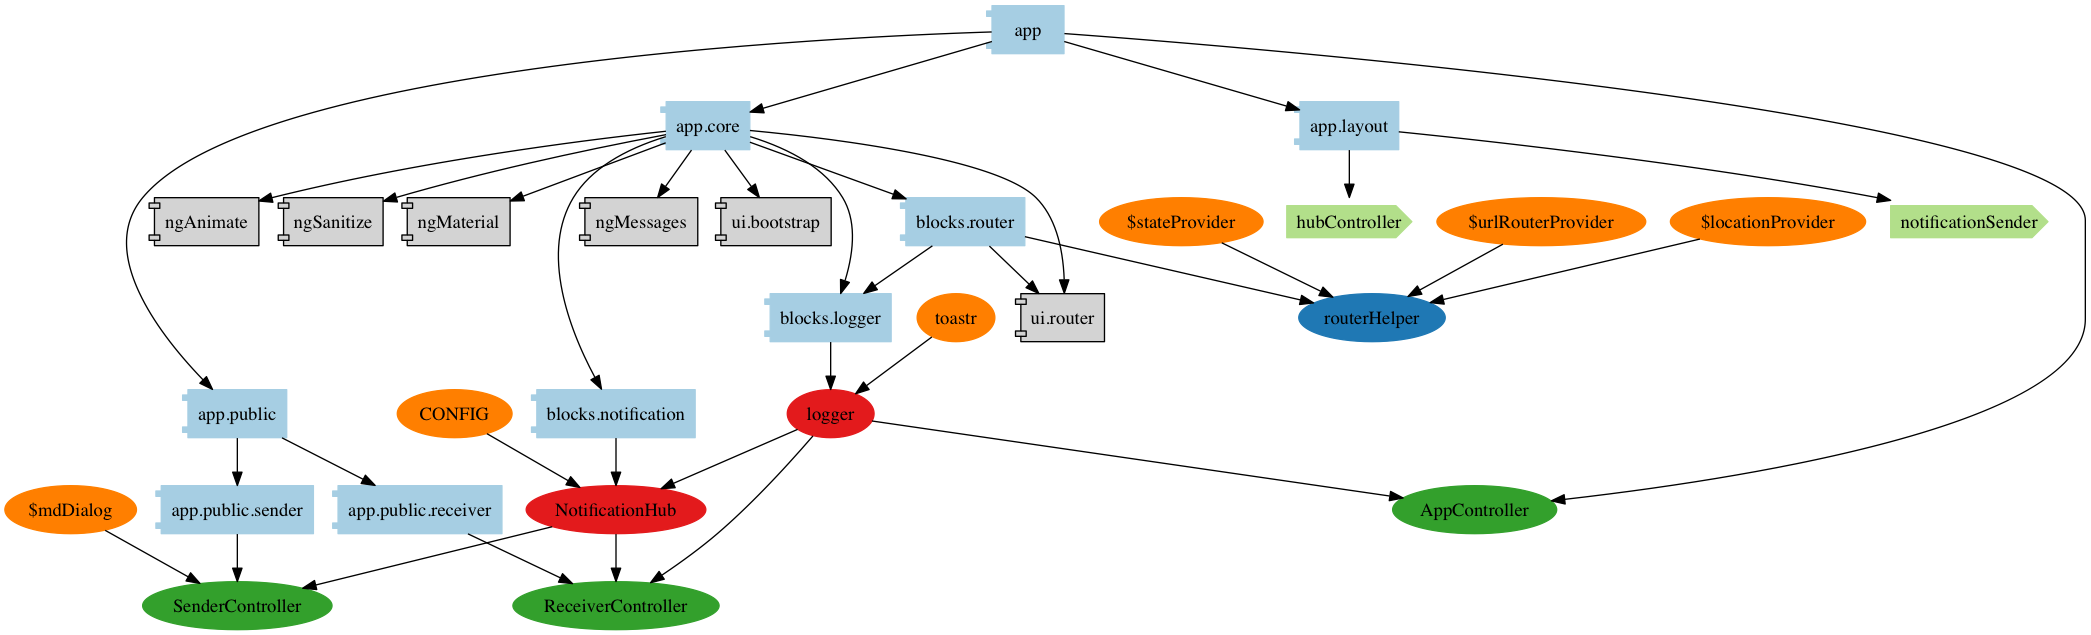
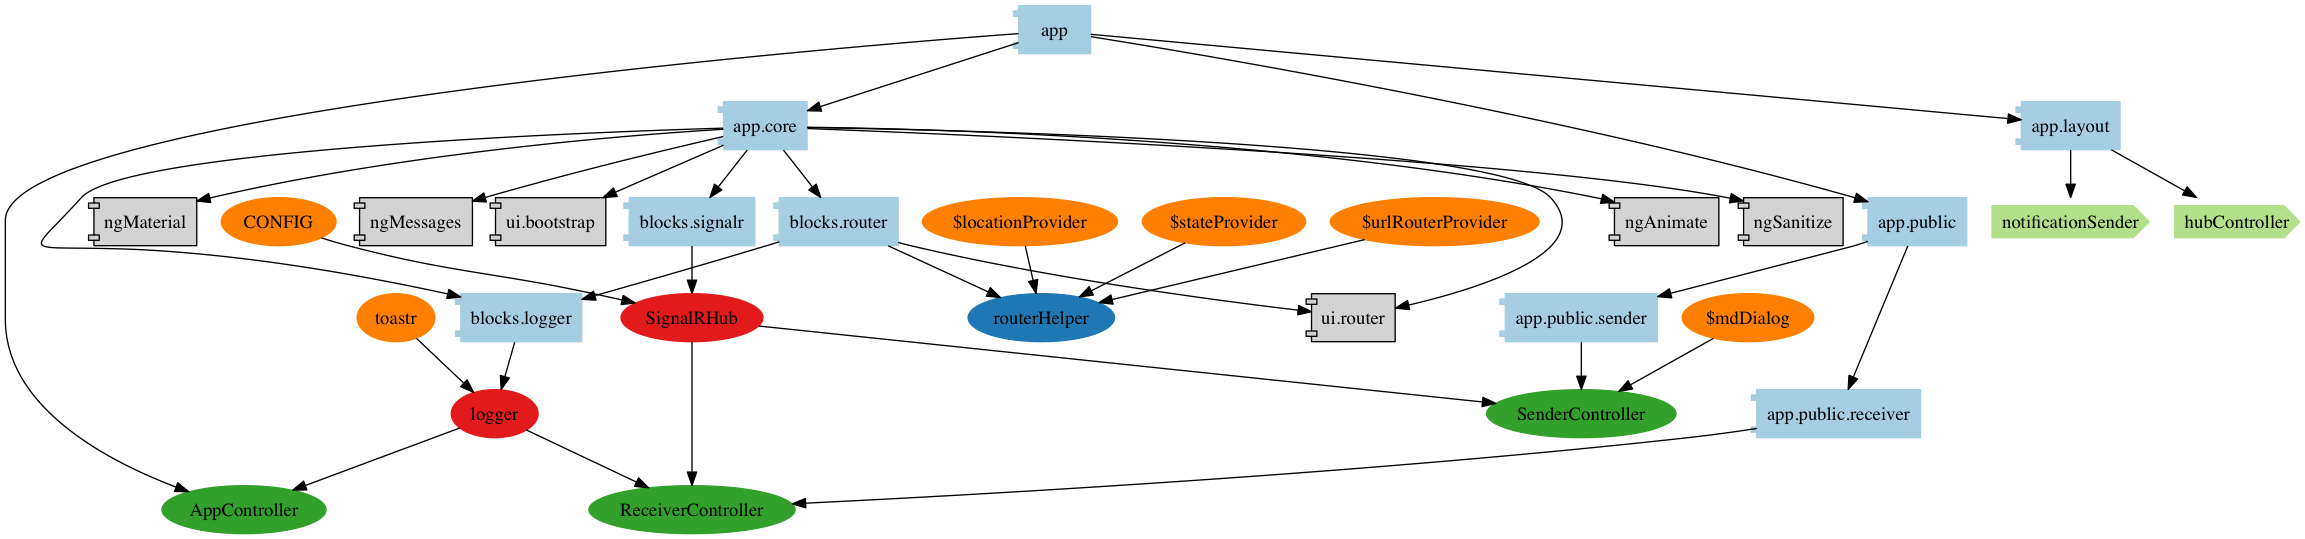
changed notificationHub to generic signalrHub

diff --git a/client/app/blocks/signalr/signalr.factory.js b/client/app/blocks/signalr/signalr.factory.js
@@ -2,13 +2,13 @@
     'use strict';
 
     angular
-        .module('blocks.notification')
-        .factory('NotificationHub', notificationHubFactory);
+        .module('blocks.signalr')
+        .factory('SignalRHub', signalRHubFactory);
 
-    notificationHubFactory.$inject = ['$rootScope', 'CONFIG', 'logger', '$q'];
+    signalRHubFactory.$inject = ['$rootScope', 'CONFIG', '$q'];
 
     /* @ngInject */
-    function notificationHubFactory($rootScope, CONFIG, logger, $q) {
+    function signalRHubFactory($rootScope, CONFIG, $q) {
 
         return constructor;
 
@@ -34,7 +34,6 @@
                         })
                         .fail(function (e) {
                             deferred.reject(e);
-                            logger.error(e);
                         });
                     return deferred.promise;
                 },

diff --git a/client/app/states/public/sender/sender.controller.js b/client/app/states/public/sender/sender.controller.js
@@ -5,12 +5,12 @@
         .module('app.public.sender')
         .controller('SenderController', SenderController);
 
-    SenderController.$inject = ['NotificationHub', '$mdDialog'];
+    SenderController.$inject = ['SignalRHub', '$mdDialog'];
 
     /* @ngInject */
-    function SenderController(NotificationHub, $mdDialog) {
+    function SenderController(SignalRHub, $mdDialog) {
         var vm = this;
-        vm.hub = NotificationHub('notifications');
+        vm.hub = SignalRHub('notifications');
         
         vm.model = new function() {
             var model = this;

diff --git a/client/app/states/public/receiver/receiver.controller.js b/client/app/states/public/receiver/receiver.controller.js
@@ -5,12 +5,12 @@
         .module('app.public.receiver')
         .controller('ReceiverController', ReceiverController);
 
-    ReceiverController.$inject = ['NotificationHub', 'logger'];
+    ReceiverController.$inject = ['SignalRHub', 'logger'];
 
     /* @ngInject */
-    function ReceiverController(NotificationHub, logger) {
+    function ReceiverController(SignalRHub, logger) {
         var vm = this;
-        vm.hub = NotificationHub('notifications');
+        vm.hub = SignalRHub('notifications');
 
         vm.model = new function() {
             var model = this;

diff --git a/client/app/index.html b/client/app/index.html
@@ -51,8 +51,8 @@
     <script src="blocks/router/router.module.js"></script>
     <script src="blocks/router/router-helper.provider.js"></script>
 
-    <script src="blocks/notification/notification.module.js"></script>
-    <script src="blocks/notification/notificationHub.factory.js"></script>
+    <script src="blocks/signalr/signalr.module.js"></script>
+    <script src="blocks/signalr/signalr.factory.js"></script>
     <script src="core/core.module.js"></script>
     <script src="core/core.constants.js"></script>
 

diff --git a/client/app/core/core.module.js b/client/app/core/core.module.js
@@ -11,7 +11,7 @@
         'blocks.logger',
         'blocks.router',
         //'blocks.network',
-        'blocks.notification',
+        'blocks.signalr',
         // Third parties modules
         'ui.bootstrap',
         'ui.router'

diff --git a/client/app/blocks/signalr/signalr.module.js b/client/app/blocks/signalr/signalr.module.js
@@ -1,6 +1,6 @@
 (function () {
     'use strict';
 
-    angular.module('blocks.notification', []);
+    angular.module('blocks.signalr', []);
     
 })();
